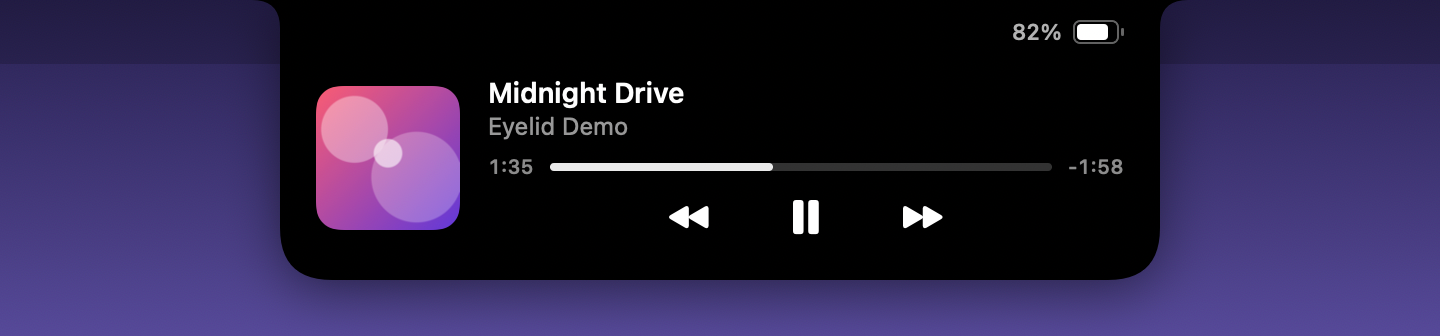
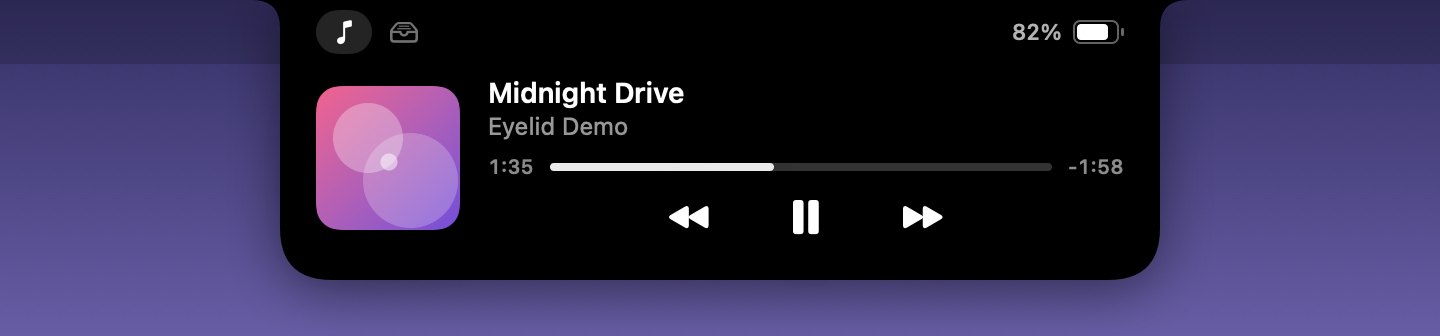
docs: describe the file shelf
Adds the shelf to the features, privacy notes and how it works, with a
new image, and renders the open notch again now that it has tabs.

Changed region(s): [[0.2188, 0.2381, 0.3125, 0.6845], [0.2188, 0.0298, 0.3125, 0.1786]]

diff --git a/README.md b/README.md
@@ -11,11 +11,11 @@
 [![macOS 14+](https://img.shields.io/badge/macOS-14%2B-black)](#install)
 [![License: GPL v3](https://img.shields.io/github/license/Nikita19329/Eyelid)](LICENSE)
 
-<img src="docs/images/notch-open.png" alt="The open notch with a playing track: artwork, title, progress, playback controls, and the battery level beside the notch" width="720">
+<img src="docs/images/notch-open.png" alt="The open notch with a playing track: artwork, title, progress and playback controls, with tabs and the battery level beside the notch" width="720">
 
 </div>
 
-Eyelid lives in the notch and blends in with it. Hover over the notch and it opens to show what's playing. Press a volume or brightness key and the level appears beside the notch instead of the system HUD. Plug in the charger and the battery shows up for a moment.
+Eyelid lives in the notch and blends in with it. Hover over the notch and it opens to show what's playing. Drop files on it to keep them at hand. Press a volume or brightness key and the level appears beside the notch instead of the system HUD. Plug in the charger and the battery shows up for a moment.
 
 > **Status:** early, but usable day to day. Expect rough edges.
 
@@ -27,6 +27,7 @@ Eyelid lives in the notch and blends in with it. Hover over the notch and it ope
 
 - **Blends in.** The closed notch matches the hardware cutout, so you don't notice Eyelid until you need it.
 - **Hover to open.** The notch opens when the pointer reaches it and closes when the pointer leaves. You can add a delay, and Force Touch trackpads give a haptic tick.
+- **Two tabs** in the open notch: Now Playing and the file shelf.
 - **Stays out of the way.** No Dock icon, on every Space and over full-screen apps. Clicks pass through to the menu bar while the notch is closed.
 - **Macs without a notch** get a virtual one at the top of the main display.
 
@@ -54,6 +55,16 @@ Eyelid lives in the notch and blends in with it. Hover over the notch and it ope
 - **Low battery warnings** at 20% and 10%.
 - **Battery level** in the open notch.
 
+### File shelf
+
+- **Drop files on the notch.** Drag files toward the notch and it opens to the shelf. Drop them anywhere on it.
+- **Drag them out** to Finder, Mail, a chat or any other app. A file then leaves the shelf, unless you turn that off.
+- **Files stay where they are.** The shelf only keeps a reference. It follows a file you rename or move, and survives a relaunch.
+- **Works with Photos, Mail and Safari,** whose photos, attachments and images only become files once they're dropped. Eyelid saves them in its Application Support folder until they leave the shelf.
+- **Double-click** opens a file. **Right-click** to show it in Finder or remove it.
+
+<img src="docs/images/shelf.png" alt="The shelf in the open notch with a photo, a PDF, a text file, a folder and a zip archive" width="720">
+
 ### Settings
 
 The eye icon in the menu bar opens Settings and quits Eyelid.
@@ -64,6 +75,7 @@ The eye icon in the menu bar opens Settings and quits Eyelid.
 | Notch | Hover delay, haptic feedback, live activity |
 | Volume & Brightness | The HUD, its level style, and an icon for each output device |
 | Battery | Battery activity |
+| Shelf | The file shelf, whether dragged-out files leave it, and a button to clear it |
 
 <img src="docs/images/settings.png" alt="The Volume & Brightness tab of Eyelid's settings" width="420">
 
@@ -115,6 +127,7 @@ Releases are signed ad hoc, so macOS ties the permission to one exact build. Aft
 - **Nothing leaves your Mac.** Eyelid never connects to the internet and has no analytics or telemetry.
 - **What it reads stays local.** What's playing, the battery and the audio devices are read on your Mac and never logged.
 - **Accessibility only if you ask for it.** Eyelid requests it only when you turn on the volume and brightness HUD, and then handles only the volume, mute and brightness keys. Other keys aren't touched.
+- **The shelf doesn't read your files.** It keeps bookmarks to them in user defaults. Previews come from Quick Look, which runs in its own sandboxed process.
 - **Settings** are stored in macOS user defaults.
 
 ## Build from source
@@ -152,6 +165,8 @@ make run
 **Device icons.** The volume HUD picks the icon from what CoreAudio reports about the output: the connection type, whether wired headphones are plugged in, and for Bluetooth the model UID, which holds the vendor and product ID. That's enough for AirPods and Beats, even after renaming them. Other Bluetooth devices all look like headphones to macOS, hence the per-device icon setting.
 
 **Battery.** IOKit's power source notifications report every change, and Eyelid turns them into plug, unplug and low battery events.
+
+**File shelf.** A drag starts by filling the system's drag pasteboard, so the mouse monitor tells a file drag from other mouse moves by its change count and types, and opens the notch to the shelf. The panel's content view is registered for file URLs and file promises. Files are kept as bookmarks, which find them again after a rename, a move or a relaunch. Promised files are received into a folder of their own per drop, and folders no longer on the shelf are deleted at the next launch: the app a file was just dragged to may still be reading it. Dragging out offers the same operations as Finder, so Finder moves a file within a disk and copies it to another disk or with Option.
 
 ## Security
 
@@ -225,7 +240,6 @@ docs/images/    Images for this README, rendered from Eyelid's own views
 ## Roadmap
 
 - [ ] Calendar: upcoming events
-- [ ] File shelf: drop files onto the notch
 - [ ] Notches on several displays at once
 - [ ] Automatic updates (Sparkle) and notarization
 
